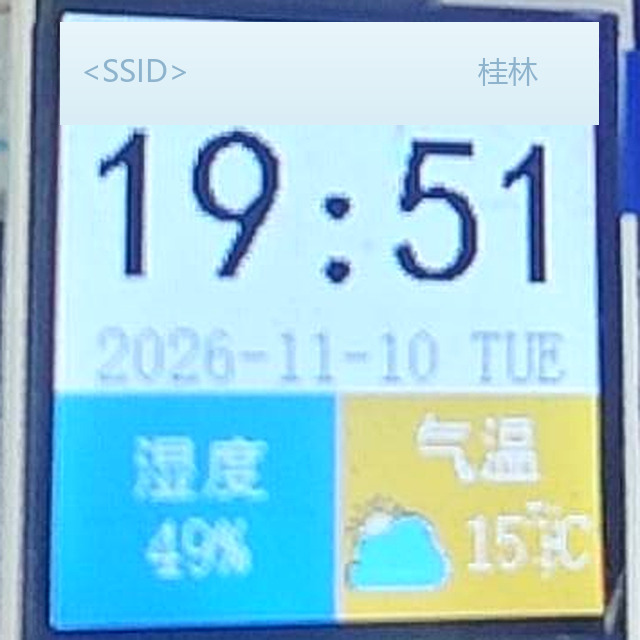
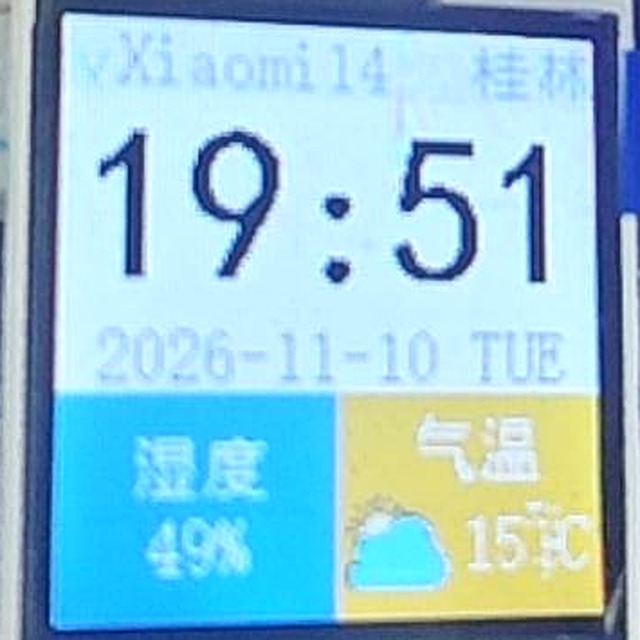
docs: verify multitask architecture on hardware, add offline/online demo GIFs
- README: rewrite software architecture for ui/net/heartbeat tasks, queue/mutex/binary semaphore, wait-hook design and priority-starvation postmortem
- Add real-hardware A/B demo: same reset point with hotspot off (colon keeps blinking, UI never freezes) vs on (SNTP jumps 00:00 -> 21:02, 14C + cloud icon appear)
- GIFs: 6 fps, palettegen/paletteuse optimized, 2.96 MB / 4.61 MB (below GitHub 10 MB limit)
- Restore unmasked SSID/city in hardware photos per user preference; credentials and API key stay private
- Add 3 new bug entries (network freeze, heartbeat starvation, unchecked xTaskCreate), update size to 48232 B Flash / 17936 B RAM
- Mark multitask refactor done; W25Q icon offload is now a hard prerequisite (APP partition exceeded by 104 B)

Changed region(s): [[0.0938, 0.0312, 0.9375, 0.1875]]

diff --git a/README.md b/README.md
@@ -1,14 +1,14 @@
 # STM32 智能天气时钟（FreeRTOS 版）
 
-基于 **STM32F103C8T6** 的桌面天气时钟：ESP32-C3（AT 固件）联网获取天气与时间，1.8" ST7735 彩屏显示时钟、气温与湿度，RTC 独立走时，FreeRTOS 调度。
+基于 **STM32F103C8T6** 的桌面天气时钟：ESP32-C3（AT 固件）联网获取天气与时间，1.8" ST7735 彩屏显示时钟、气温与湿度，RTC 独立走时，FreeRTOS 多任务调度。
 
 本项目为「裸机版天气时钟」的 FreeRTOS 重构版本，同时也是后续 **OTA 远程升级** 改造的起点。
 
-> **状态：全部功能已在真机验证通过**（2026-11-10），详见文末「真机验证记录」。
+> **状态：全部功能与多任务架构均已在真机验证通过**（2026-11-10），详见文末「真机验证记录」与「演示：断网 A/B 对比」。
 
 ![实物接线：STM32F103C8T6 + ST7735 彩屏 + ESP32-C3 面包板系统](docs/hardware.jpg)
 
-> 实物照片：面包板上的 C8T6、ST7735 彩屏、ESP32-C3 与杜邦线连接。照片中的 WiFi 名称已脱敏。
+> 实物照片：面包板上的 C8T6、ST7735 彩屏、ESP32-C3 与杜邦线连接。
 
 ---
 
@@ -19,7 +19,9 @@
 - **界面**：128×128 分区布局 —— 状态栏（WiFi 名 + 城市）、48 px 大字号时间、日期行、湿度面板、气温面板
 - **湿度**：来自天气 API 的**城市相对湿度**（板上没有湿度传感器），显示如 `49%`
 - **气温**：天气 API 实况温度 + 对应的 24×24 天气图标（晴 / 多云 / 阴 / 雨 / 雪 / 风）
-- **RTOS 调度**：FreeRTOS 动态创建任务（`start_task` → `ui_task`），`heap_4` 内存管理
+- **三任务架构**：`ui_task` / `net_task` / `heartbeat_task` 分工，队列传数据、互斥量保护屏幕、二值信号量做启动闸门
+- **断网不冻屏**：AT 指令最长 20 s 的等待被隔离在低优先级网络任务，联网卡住时时间、冒号与 LED 心跳照常
+- **栈水位监控**：每 20 s 用 `uxTaskGetStackHighWaterMark()` 采样，低于 64 word 时 LED 快闪告警
 
 > 说明：MPU6050 驱动仍在工程中并完成了初始化，但当前界面不读取它 —— 它的温度是**芯片结温**（比室温高 10 ℃ 以上），不是环境温度，显示出来会误导，因此已停用。姿态自动翻转功能尚未实现。
 
@@ -80,30 +82,49 @@
 
 ```
 main()
- ├─ HAL_Init()                     HAL 与系统时基
- ├─ SystemClock_Config()           72 MHz（HSE 8 MHz × 9）
+ ├─ HAL_Init() / SystemClock_Config()       72 MHz（HSE 8 MHz × 9）
  ├─ MX_GPIO_Init() / MX_USART1_UART_Init()
- └─ freertos_start()               Core/Src/main.c → user/freertos_demo.c
-      ├─ xTaskCreate(start_task)
-      ├─ vTaskStartScheduler()     TICK = 1000 Hz
-      └─ start_task 动态创建 ui_task 后自删除
-           └─ ui_task: 初始化外设 → 绘制界面框架 → 联网 → 循环刷新（500 ms 周期）
+ └─ freertos_start()
+      ├─ xQueueCreate(6, weather_msg_t)     网络 → UI 的数据快照队列
+      ├─ xSemaphoreCreateMutex()            保护 ST7735（两个任务都要写屏）
+      ├─ xSemaphoreCreateBinary()           屏幕就绪闸门，初值 0
+      ├─ esp_at_set_wait_hook(net_wait_1ms) 把驱动层 1ms 忙等换成 vTaskDelay(1)
+      ├─ xTaskCreate(start_task) / vTaskStartScheduler()    TICK = 1000 Hz
+      └─ start_task 建完三个任务后 vTaskDelete(NULL)
+           ├─ ui_task         P3  640 word   只画屏 + 500 ms 时间节拍
+           ├─ net_task        P2  384 word   WiFi / SNTP / HTTP，只发队列
+           └─ heartbeat_task  P4  128 word   1 Hz LED + 20 s 栈水位采样
 ```
 
-`ui_task` 启动顺序（**顺序很重要**）：
+启动顺序（**顺序和闸门都很重要**）：
 
 ```
-led_init → st7735_init → rtc_init → mpu6050_init
-→ ui_draw_frame / 状态栏 / 日期 / 时间 / 湿度面板
-→ ui_init_network()           ← ESP32 串口到这一步才初始化
-→ 补画日期（进度行会擦掉它）
-→ 取实况天气 → 取湿度
-→ 主循环：每 2 s 刷湿度面板、60 s 刷日期、10 min 刷天气+对时、60 min 刷湿度
+ui_task:   led_init → st7735_init → rtc_init → mpu6050_init
+        → 画静态框架 / 状态栏 / 日期 / 时间 / 湿度面板
+        → xSemaphoreGive(g_lcd_ready)          放行 net_task
+        → 循环：非阻塞 xQueueReceive + 每 500 ms 刷时间/冒号
+
+net_task:  xSemaphoreTake(g_lcd_ready)         屏没初始化好之前绝不碰屏
+        → net_init_network()（进度行，写屏前先拿 g_lcd_mutex）
+        → 依次发 MSG_WIFI_STATUS / MSG_NET_DONE / MSG_WEATHER / MSG_HUMIDITY
+        → 循环：每 10 min 刷天气 + 对时，每 60 min 刷湿度
 ```
 
-> 曾经的顺序 bug：`ui_update_weather()` 排在 `ui_init_network()` 之前，等于把 AT 命令发给一个还没打开的串口，会白等 10 秒，表现为「橙色面板空白」。现在已修正。
+| 同步对象 | 类型 | 解决的问题 |
+|---|---|---|
+| `g_weather_q` | 队列（深度 6） | 网络数据与界面解耦；UI 用 `xQueueReceive(..., 0)` 非阻塞取，绝不因等网络而停摆 |
+| `g_lcd_mutex` | 互斥量 | `net_task` 画开机进度、`ui_task` 画主界面共用 SPI，避免半帧交错 |
+| `g_lcd_ready` | 二值信号量 | ESP32 串口在联网流程里才初始化，闸门保证进度行不会写进一块还没初始化的屏 |
 
-任务参数：优先级 5 级（`configMAX_PRIORITIES = 5`）、最小栈 128 word、堆 8 KB（`heap_4`）。当前为**单任务轮询**，尚未拆分网络 / UI / 传感器任务。
+**为什么做这次拆分（真实缺陷，不是为了用 RTOS 而用）**：`esp_at_send_command()` 的等待是 `while (rxready && timeout--) delay_ms(1)`，`AT+CWJAP` 上限 20 s、HTTP 10 s。原架构网络与画屏挤在同一个 `ui_task` 里，请求一卡就整屏冻结、时间不跳、LED 不闪。
+
+**驱动层保持零 RTOS 依赖**：`esp_at.c` 不 include 任何 RTOS 头文件，只暴露一个 `esp_at_set_wait_hook()` 函数指针；任务层注册 `net_wait_1ms()`（`vTaskDelay(1)`），把每 1 ms 的忙等变成挂起一个 tick。系统 tick 是 1 kHz，任务总在 tick 边界被唤醒，超时仍按毫秒计。固定延时（500 / 2500 / 1000 ms）也走同一路径。
+
+> **踩过的坑：低优先级饥饿。** 首版把 `heartbeat_task` 放在 P1（最低），真机出现「冒号照常闪、PC13 LED 完全不闪」——因为 `net_task`(P2) 忙等时始终就绪，`ui_task`(P3) 能抢占，而 P1 一次都调度不到。修复是三管齐下：等待钩子让出 CPU、心跳提到 P4（存活指示器必须独立于业务负载）、并给三个 `xTaskCreate` 补返回值检查（堆不足时以 100 ms 快闪报警，不再静默失败）。
+
+任务参数：优先级 5 级（`configMAX_PRIORITIES = 5`）、最小栈 128 word、堆 8 KB（`heap_4`，三个任务栈与同步对象均从中动态分配）、`configUSE_MUTEXES = 1`、`INCLUDE_uxTaskGetStackHighWaterMark = 1`。
+
+> 曾经的顺序 bug：`ui_update_weather()` 排在串口初始化之前，等于把 AT 命令发给一个还没打开的串口，会白等 10 秒，表现为「橙色面板空白」。现在已修正，并由 `g_lcd_ready` 从机制上杜绝。
 
 ## 目录结构
 
@@ -114,7 +135,9 @@ weather_clock/
 │   └── Src/                 main.c / gpio.c / usart.c / stm32f1xx_it.c
 ├── Drivers/                 STM32F1 HAL 库 + CMSIS（ST 官方，未改动）
 ├── FreeRTOS/                内核源码（tasks / queue / list）+ heap_4 + ARM_CM3 port
-├── docs/                    真机实物照片（hardware.jpg / screen.jpg）
+├── docs/                    实物照片 + 断网 A/B 对比演示 GIF
+│   ├── hardware.jpg / screen.jpg
+│   └── demo-offline.gif / demo-online.gif
 └── mdk/                     Keil MDK 工程
     ├── Freertos的嵌入式智能天气时钟.uvprojx
     ├── app/                 应用层：天气解析、字库、开机动画、图标
@@ -135,61 +158,73 @@ weather_clock/
    #define WEATHER_CFG_CITY     "guilin"
    ```
 
-   > 仓库中该文件是占位符版本（`YOUR_WIFI_SSID` 等），不填无法联网，但能正常编译。
+   > 仓库中该文件是占位符版本（`YOUR_WIFI_SSID` 等），不填无法联网，但能正常编译。照片与录屏里的 SSID 是实机调试用的真实热点名，配置文件本身不含任何真实凭据。
 
 2. **打开工程**：Keil MDK 打开 `mdk/Freertos的嵌入式智能天气时钟.uvprojx`
 3. **编译烧录**：`F7` 编译 → `F8` 下载（ST-Link，起始地址 `0x08000000`，BOOT0 接 GND）
-4. **上电观察**：屏幕先出完整界面，中间提示行依次走 `1/4 Init ESP...` → `2/4 STA Mode...` → `3/4 <SSID>...` → `4/4 SNTP Sync...`，随后进入时钟界面
+4. **上电观察**：LED 慢闪 3 次（启动标志）→ 屏幕出完整界面，中间提示行依次走 `1/4 Init ESP...` → `2/4 STA Mode...` → `3/4 <SSID>...` → `4/4 SNTP Sync...` → 进入时钟界面，LED 转为稳定 1 Hz 慢闪
 
 ### 排障提示（都是真机踩过的坑）
 
 | 现象 | 原因与排查方向 |
 |---|---|
 | **背光亮、屏幕纯白** | **头号原因：RES 没接 PB0**，或 RES/DC 接反（PB0 与 PB1 是相邻两孔）。屏没被硬件复位唤醒，发什么命令都不响应 |
-| 背光亮、有画面但卡住 | 检查 `ui_init_network()` 顺序，AT 命令不能发在串口初始化之前 |
+| 背光亮、有画面但卡住 | 检查 `net_init_network()` 顺序，AT 命令不能发在串口初始化之前 |
 | 屏幕全黑 | 量 PB10 背光是否为高、VCC 是否 3.3 V |
 | 顶部彩条都画不出来 | 用 `st7735_probe_bars()` 做最小路径测试（绕过上层绘图）；能出彩条 = 屏与 SPI 正常，问题在绘图层 |
 | `ESP rx=0000` | ESP32 一个字节都没回：查 TX/RX 交叉、共地、EN/BOOT 脚、供电（不要用 ST-Link 的 3.3 V 带 ESP） |
 | 时间显示 `08:xx` | `AT+SYSTIMESTAMP?` 不被固件支持导致时间戳为 0（1970+8h）。本工程已改用 `AT+CIPSNTPTIME?` |
 | 图标是黑底 + 颜色错乱 | RGB565 图标数组是**小端**存放，且 `0x0000` 表示透明。本工程已按小端解析并跳过纯黑 |
-| 湿度显示 `--%` | 湿度来自 `daily.json`，联网失败或接口未返回时会保持占位符 |
+| 湿度显示 `--%` | 湿度来自 `daily.json`，联网失败或接口未返回时会保持占位符，属正常容错 |
+| 冒号闪但 LED 完全不闪 | 低优先级饥饿：`net_task` 长忙等期间心跳任务抢不到 CPU。本工程已用等待钩子 + 心跳 P4 修复 |
+| LED 上电后 100 ms 快闪不停 | `ucHeap` 不足导致某个 `xTaskCreate` 失败，需扩堆或缩任务栈 |
 
 > **AT 固件差异**：实测这颗 ESP32-C3 是裁剪版乐鑫 AT 固件，支持 `AT` / `CWMODE` / `CWJAP` / `CIPSNTPCFG` / `CIPSNTPTIME?` / `HTTPCGET`，但不支持 `AT+GMR` / `AT+VER` / `AT+CIPSTA?` / `AT+SYSTIMESTAMP?`。因此初始化采用「先用 `AT` 探活，其余尽力而为」的容错写法，不因某条可选命令报错就判定模组失联。
 
 ## 资源占用（实测，Keil V5.06 编译结果）
 
 ```
-Program Size: Code=13044  RO-data=32052  RW-data=220  ZI-data=17684
+Program Size: Code=15928  RO-data=32052  RW-data=252  ZI-data=17684
 ```
 
 | 项目 | 占用 | 总容量 | 使用率 |
 |---|---|---|---|
-| Flash（Code + RO + RW） | 45 316 B ≈ **44.3 KB** | 64 KB | 69.2% |
-| RAM（RW + ZI） | 17 904 B ≈ **17.5 KB** | 20 KB | 87.4% |
+| Flash（Code + RO + RW） | 48 232 B ≈ **47.1 KB** | 64 KB | 73.6% |
+| RAM（RW + ZI） | 17 936 B ≈ **17.5 KB** | 20 KB | 87.6% |
 
-> 数值含本地 WiFi 账号字符串，换用不同长度的 SSID 会有几十字节偏差。
+> 多任务重构相比单任务版 Flash +2 916 B（三任务 TCB/栈从 8 KB `ucHeap` 动态分配，不增加静态 ZI）、RAM +32 B。数值含本地 WiFi 账号字符串，换用不同长度的 SSID 会有几十字节偏差。
 
 **空间分析（决定了后续改造路线）**
 
-- `RO-data` 中 **27 648 B（27 KB）是 6 张天气图标**（48×48 RGB565），占 Flash 的 61%，占 RO-data 的 86%。若迁移到外部 SPI Flash，Flash 占用可降到约 17 KB。
+- `RO-data` 中 **27 648 B（27 KB）是 6 张天气图标**（48×48 RGB565），占 Flash 的 57%，占 RO-data 的 86%。若迁移到外部 SPI Flash，Flash 占用可降到约 20 KB。
 - RAM 仅剩 **2.5 KB**。若直接移植 OTA BootLoader 并与 APP 共享缓冲区，极易栈溢出，需重新核算任务栈与堆。
-- 若套用 16 KB Boot + 47 KB APP 的 OTA 分区，APP 可用 48 128 B，当前 45 316 B 仅余 **2.8 KB**，加任何功能都会溢出 —— 所以**图标外置 W25Q 是移植 OTA 的前置条件**。
+- 若套用 16 KB Boot + 47 KB APP 的 OTA 分区，APP 可用 48 128 B，而当前已占 48 232 B —— **超出 104 B**。所以**图标外置 W25Q 已从「建议」变成移植 OTA 的硬前置条件**。
 
 ## 真机验证记录（2026-11-10）
 
-在 STM32F103C8T6 + ST7735 + ESP32-C3 实物上完成，屏幕实测显示（状态栏 WiFi 名称已脱敏为 `<SSID>`）：
+在 STM32F103C8T6 + ST7735 + ESP32-C3 实物上完成，屏幕实测显示：
 
 ![屏幕特写：状态栏、时间、日期、湿度与气温面板](docs/screen.jpg)
 
 ```
-状态栏   <SSID> | 桂林       ← WiFi 已连接
-时间     19:51                 ← 与北京时间一致，SNTP 对时正确
+状态栏   Xiaomi14 | 桂林    ← WiFi 已连接
+时间     19:51                ← 与北京时间一致，SNTP 对时正确
 日期     2026-11-10 TUE
-湿度     49%                   ← 心知 daily.json 返回
-气温     15°C + 多云图标        ← 心知 now.json 返回，图标颜色/透明正常
+湿度     49%                  ← 心知 daily.json 返回
+气温     15°C + 多云图标       ← 心知 now.json 返回，图标颜色/透明正常
 ```
 
-已验证：SPI 显示链路、RGB565 字序、16×16 中文字模、窗口坐标、RTC 走时、USART2 中断接收、AT 指令建链、WiFi 入网、SNTP 对时、HTTP 取天气与湿度、FreeRTOS 任务调度、LED 心跳。
+已验证：SPI 显示链路、RGB565 字序、16×16 中文字模、窗口坐标、RTC 走时、USART2 中断接收、AT 指令建链、WiFi 入网、SNTP 对时、HTTP 取天气与湿度、FreeRTOS 三任务调度、队列/互斥量/信号量、`uxTaskGetStackHighWaterMark` 栈水位采样、LED 心跳。
+
+**多任务专项验证**（关掉手机热点后按 RESET）：
+
+| 观察项 | 结果 |
+|---|---|
+| LED 慢闪 3 次（启动标志）→ 稳定 1 Hz 慢闪 | 通过 |
+| 联网卡住的几十秒内，中间冒号持续每秒闪一次 | 通过 |
+| 同一时间窗内 PC13 LED 保持 1 Hz 慢闪、屏幕不冻结 | 通过 |
+| 恢复热点后重启，天气 / 湿度 / 对时回来 | 通过 |
+| 栈水位告警（快闪 3 次） | 未触发 |
 
 排查过程中定位并修复的问题（均已在代码中）：
 
@@ -204,14 +239,31 @@ Program Size: Code=13044  RO-data=32052  RW-data=220  ZI-data=17684
 | 7 | 湿度行超出 64 px 面板 4 px，蓝色侵入橙色面板 | 重排文字起点，收进面板边界 |
 | 8 | 图标字节序错（大端→小端）+ 黑底 | 小端解析 + `0x0000` 视为透明 |
 | 9 | 湿度无数据来源 | 新增 `daily.json` 请求与 `weather_parse_humidity()` |
+| 10 | 网络请求卡住时整屏冻结 10 s | 拆出 P2 `net_task` + 队列解耦，UI 独立 500 ms 节拍 |
+| 11 | 多任务首版「冒号闪但 LED 不闪」 | 低优先级饥饿：`esp_at` 等待钩子让出 CPU + 心跳提到 P4 |
+| 12 | `xTaskCreate` 返回值被丢弃，堆不足时静默失败 | 逐个检查返回值，失败以 100 ms 快闪报警 |
+
+## 演示：断网 A/B 对比
+
+两段真机录屏取自**同一起点**（按 RESET 重启，RTC 无备份电池故从 `00:00` 起），已转正、裁到屏幕区域并转成 6 fps 优化 GIF（单文件均小于 GitHub 10 MB 上限）：
+
+| 关掉手机热点 | 打开手机热点 |
+|---|---|
+| ![断网时冒号与界面照常刷新](docs/demo-offline.gif) | ![联网后 SNTP 对时与天气刷出](docs/demo-online.gif) |
+| 状态栏 `NoWiFi`，停在 `3/4 Xiaomi14...`，时间保持 `00:00` | `3/4` → SNTP 对时跳到 `21:02` → `21:03`，气温 `14°C` 与云图标刷出 |
+| **冒号持续闪、屏幕不冻、LED 保持 1 Hz**：网络忙等被隔离在 P2，UI(P3) 与心跳(P4) 照常抢占 | 数据回来后只重画对应面板，时间节拍不受影响 |
+
+> 断网那次湿度保持 `--%`、气温面板留空，是刻意的容错行为：请求失败时保留占位符，不覆盖旧值、不阻塞界面。湿度需单独请求 `daily.json`，本次演示未取到；上面那张静态特写里显示为 `49%`。
+>
+> 两段 GIF 循环播放，单文件 2.96 MB / 4.61 MB；原始 mp4 未在仓库中重复存放。
 
 ## 当前进度与后续计划
 
 - [x] 裸机版 → FreeRTOS 重构，Keil 编译 0 Error / 0 Warning
-- [x] **全部功能真机验证通过**（显示 / 对时 / 联网 / 天气 / 湿度）
-- [ ] 图标外置到 W25Q（释放 27 KB Flash，为 OTA 腾出空间）
+- [x] 全部功能真机验证通过（显示 / 对时 / 联网 / 天气 / 湿度）
+- [x] **多任务重构**：`ui_task` / `net_task` / `heartbeat_task` + 队列 / 互斥量 / 二值信号量 / 栈水位监控，真机验证通过
+- [ ] 图标外置到 W25Q（释放 27 KB Flash，为 OTA 腾出空间 —— 当前已超 APP 分区 104 B，属硬前置）
 - [ ] 移植 OTA BootLoader（`0x08000000` 16 KB Boot + `0x08004000` APP）
-- [ ] 多任务重构：网络任务 / UI 任务 / 传感器任务拆分，改为队列通信
 
 ## 说明
 
